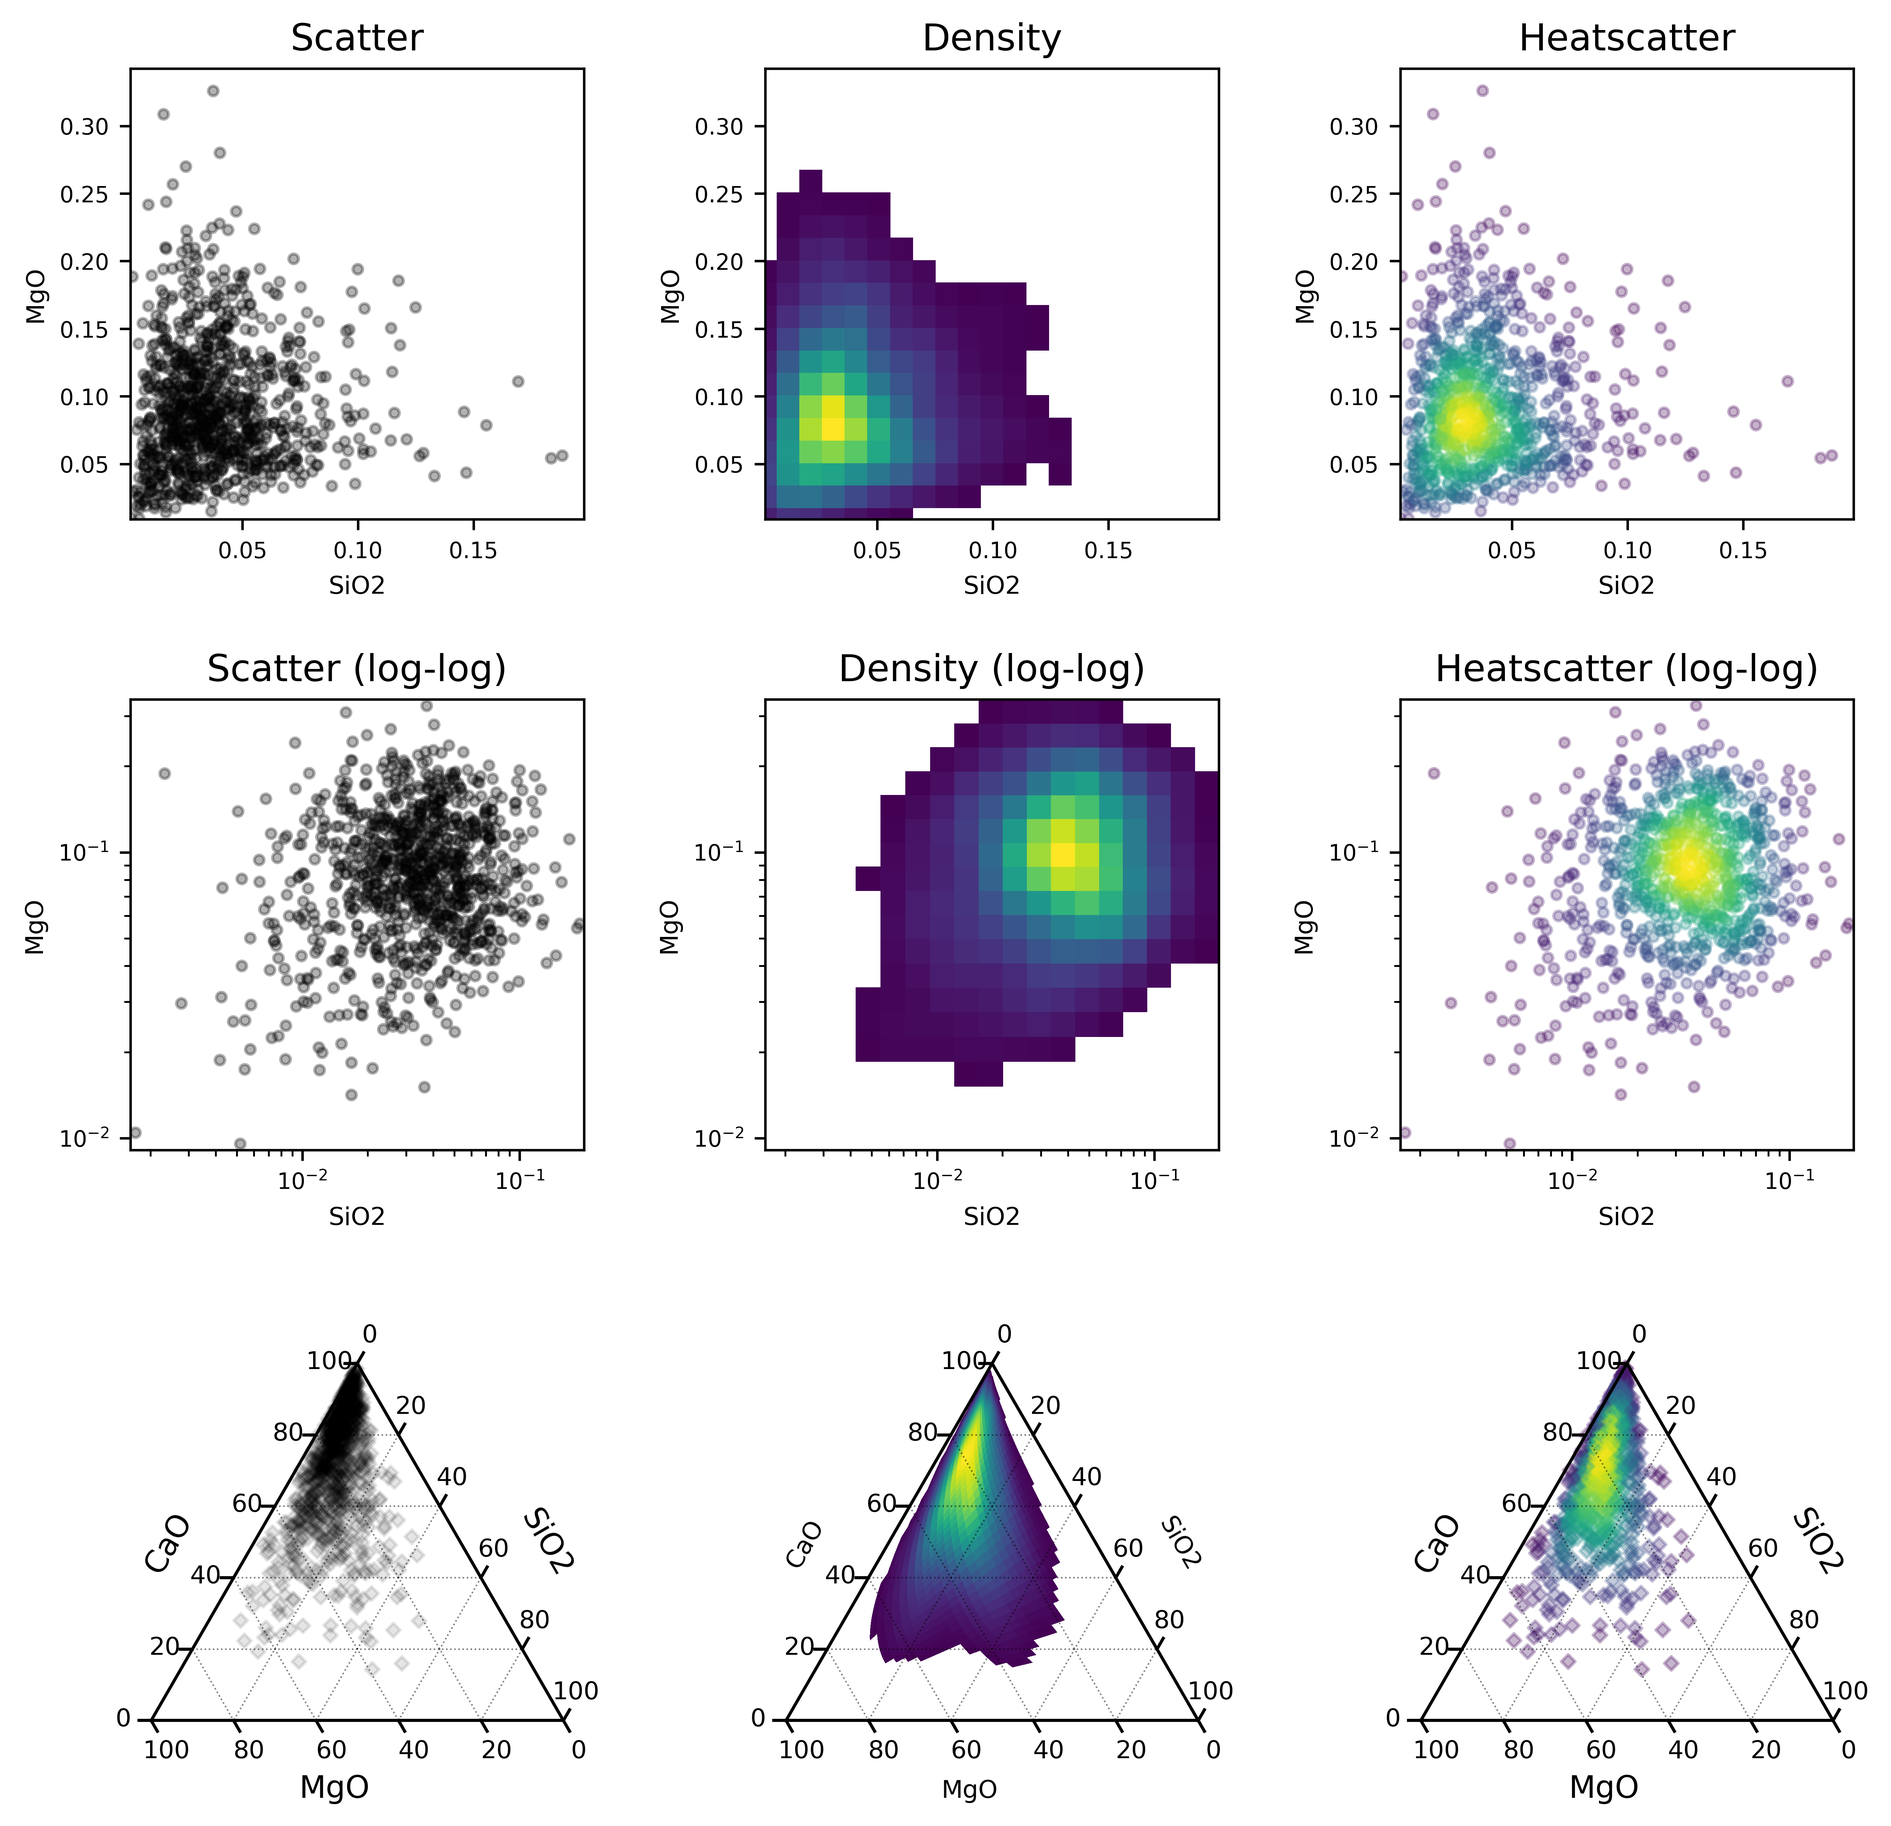
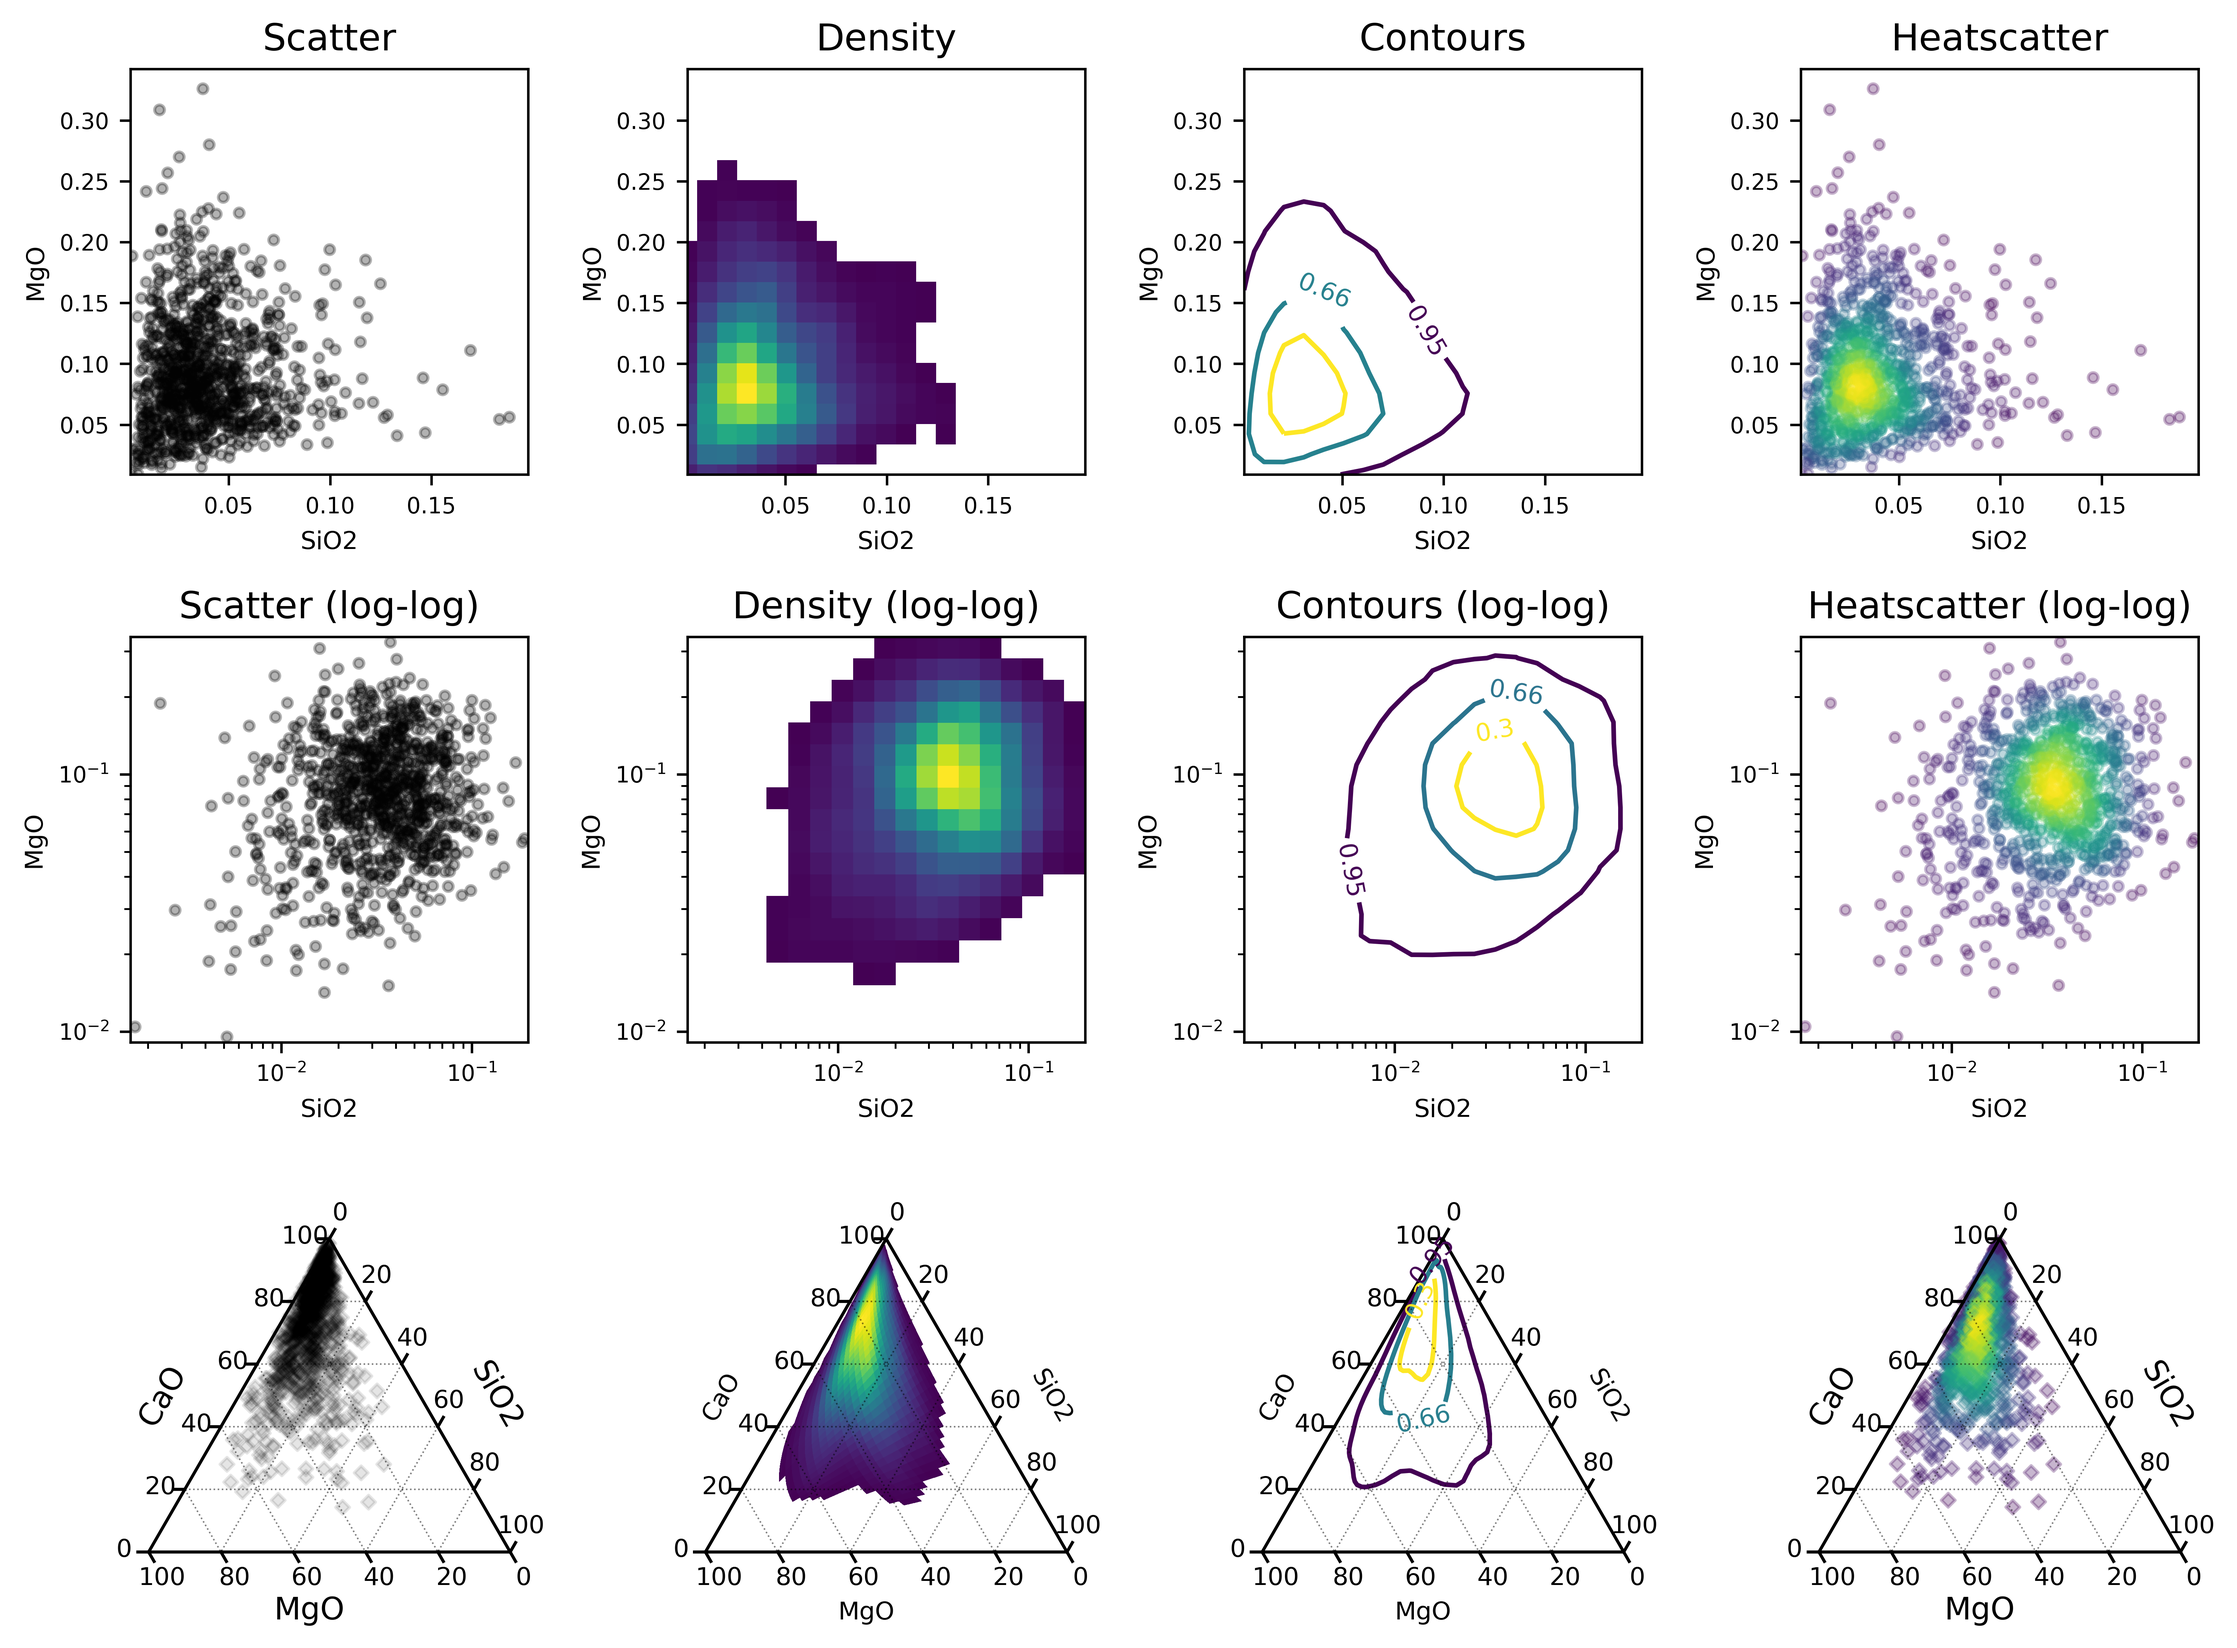
Update Heatscatter Comparison

diff --git a/docs/source/examples/plotting/heatscatter.py b/docs/source/examples/plotting/heatscatter.py
@@ -32,32 +32,41 @@ df = test_df(
 #
 from pyrolite.util.plot import share_axes
 
-fig, ax = plt.subplots(3, 3, figsize=(10, 10))
-ax = ax.flat
-share_axes(ax[:3], which="xy")
-share_axes(ax[3:6], which="xy")
-share_axes(ax[6:], which="xy")
+fig, ax = plt.subplots(3, 4, figsize=(12, 9))
 
+ax = ax.flat
+share_axes(ax[:4], which="xy")
+share_axes(ax[4:8], which="xy")
+share_axes(ax[8:], which="xy")
+
+contours = [0.95, 0.66, 0.3]
 # linear-scaled comparison
 df.loc[:, ["SiO2", "MgO"]].pyroplot.scatter(ax=ax[0], c="k", s=10, alpha=0.3)
 df.loc[:, ["SiO2", "MgO"]].pyroplot.density(ax=ax[1])
-df.loc[:, ["SiO2", "MgO"]].pyroplot.heatscatter(ax=ax[2], s=10, alpha=0.3)
+df.loc[:, ["SiO2", "MgO"]].pyroplot.density(ax=ax[2], contours=contours)
+df.loc[:, ["SiO2", "MgO"]].pyroplot.heatscatter(ax=ax[3], s=10, alpha=0.3)
 
 # log-log plots
-df.loc[:, ["SiO2", "MgO"]].pyroplot.scatter(ax=ax[3], c="k", s=10, alpha=0.3)
-df.loc[:, ["SiO2", "MgO"]].pyroplot.density(ax=ax[4], logx=True, logy=True)
+df.loc[:, ["SiO2", "MgO"]].pyroplot.scatter(ax=ax[4], c="k", s=10, alpha=0.3)
+df.loc[:, ["SiO2", "MgO"]].pyroplot.density(ax=ax[5], logx=True, logy=True)
+df.loc[:, ["SiO2", "MgO"]].pyroplot.density(
+    ax=ax[6], contours=contours, logx=True, logy=True
+)
 df.loc[:, ["SiO2", "MgO"]].pyroplot.heatscatter(
-    ax=ax[5], s=10, alpha=0.3, logx=True, logy=True
+    ax=ax[7], s=10, alpha=0.3, logx=True, logy=True
 )
 # ternary plots
-df.loc[:, ["SiO2", "CaO", "MgO"]].pyroplot.scatter(ax=ax[6], c="k", s=10, alpha=0.1)
-df.loc[:, ["SiO2", "CaO", "MgO"]].pyroplot.density(ax=ax[7], bins=100)
+df.loc[:, ["SiO2", "CaO", "MgO"]].pyroplot.scatter(ax=ax[8], c="k", s=10, alpha=0.1)
+df.loc[:, ["SiO2", "CaO", "MgO"]].pyroplot.density(ax=ax[9], bins=100)
+df.loc[:, ["SiO2", "CaO", "MgO"]].pyroplot.density(
+    ax=ax[10], contours=contours, bins=100
+)
 df.loc[:, ["SiO2", "CaO", "MgO"]].pyroplot.heatscatter(
-    ax=ax[8], s=10, alpha=0.3, renorm=True
+    ax=ax[11], s=10, alpha=0.3, renorm=True
 )
 fig.subplots_adjust(hspace=0.4, wspace=0.4)
 
-titles = ["Scatter", "Density", "Heatscatter"]
+titles = ["Scatter", "Density", "Contours", "Heatscatter"]
 for t, a in zip(titles + [i + " (log-log)" for i in titles], ax):
     a.set_title(t)
 ########################################################################################

diff --git a/docs/source/usage/examples/_auto/plotting/heatscatter.py b/docs/source/usage/examples/_auto/plotting/heatscatter.py
@@ -32,32 +32,41 @@ df = test_df(
 #
 from pyrolite.util.plot import share_axes
 
-fig, ax = plt.subplots(3, 3, figsize=(10, 10))
-ax = ax.flat
-share_axes(ax[:3], which="xy")
-share_axes(ax[3:6], which="xy")
-share_axes(ax[6:], which="xy")
+fig, ax = plt.subplots(3, 4, figsize=(12, 9))
 
+ax = ax.flat
+share_axes(ax[:4], which="xy")
+share_axes(ax[4:8], which="xy")
+share_axes(ax[8:], which="xy")
+
+contours = [0.95, 0.66, 0.3]
 # linear-scaled comparison
 df.loc[:, ["SiO2", "MgO"]].pyroplot.scatter(ax=ax[0], c="k", s=10, alpha=0.3)
 df.loc[:, ["SiO2", "MgO"]].pyroplot.density(ax=ax[1])
-df.loc[:, ["SiO2", "MgO"]].pyroplot.heatscatter(ax=ax[2], s=10, alpha=0.3)
+df.loc[:, ["SiO2", "MgO"]].pyroplot.density(ax=ax[2], contours=contours)
+df.loc[:, ["SiO2", "MgO"]].pyroplot.heatscatter(ax=ax[3], s=10, alpha=0.3)
 
 # log-log plots
-df.loc[:, ["SiO2", "MgO"]].pyroplot.scatter(ax=ax[3], c="k", s=10, alpha=0.3)
-df.loc[:, ["SiO2", "MgO"]].pyroplot.density(ax=ax[4], logx=True, logy=True)
+df.loc[:, ["SiO2", "MgO"]].pyroplot.scatter(ax=ax[4], c="k", s=10, alpha=0.3)
+df.loc[:, ["SiO2", "MgO"]].pyroplot.density(ax=ax[5], logx=True, logy=True)
+df.loc[:, ["SiO2", "MgO"]].pyroplot.density(
+    ax=ax[6], contours=contours, logx=True, logy=True
+)
 df.loc[:, ["SiO2", "MgO"]].pyroplot.heatscatter(
-    ax=ax[5], s=10, alpha=0.3, logx=True, logy=True
+    ax=ax[7], s=10, alpha=0.3, logx=True, logy=True
 )
 # ternary plots
-df.loc[:, ["SiO2", "CaO", "MgO"]].pyroplot.scatter(ax=ax[6], c="k", s=10, alpha=0.1)
-df.loc[:, ["SiO2", "CaO", "MgO"]].pyroplot.density(ax=ax[7], bins=100)
+df.loc[:, ["SiO2", "CaO", "MgO"]].pyroplot.scatter(ax=ax[8], c="k", s=10, alpha=0.1)
+df.loc[:, ["SiO2", "CaO", "MgO"]].pyroplot.density(ax=ax[9], bins=100)
+df.loc[:, ["SiO2", "CaO", "MgO"]].pyroplot.density(
+    ax=ax[10], contours=contours, bins=100
+)
 df.loc[:, ["SiO2", "CaO", "MgO"]].pyroplot.heatscatter(
-    ax=ax[8], s=10, alpha=0.3, renorm=True
+    ax=ax[11], s=10, alpha=0.3, renorm=True
 )
 fig.subplots_adjust(hspace=0.4, wspace=0.4)
 
-titles = ["Scatter", "Density", "Heatscatter"]
+titles = ["Scatter", "Density", "Contours", "Heatscatter"]
 for t, a in zip(titles + [i + " (log-log)" for i in titles], ax):
     a.set_title(t)
 ########################################################################################

diff --git a/docs/source/examples/plotting/heatscatter.rst b/docs/source/examples/plotting/heatscatter.rst
@@ -59,32 +59,41 @@ visualisations for the same data:
 
     from pyrolite.util.plot import share_axes
 
-    fig, ax = plt.subplots(3, 3, figsize=(10, 10))
-    ax = ax.flat
-    share_axes(ax[:3], which="xy")
-    share_axes(ax[3:6], which="xy")
-    share_axes(ax[6:], which="xy")
+    fig, ax = plt.subplots(3, 4, figsize=(12, 9))
 
+    ax = ax.flat
+    share_axes(ax[:4], which="xy")
+    share_axes(ax[4:8], which="xy")
+    share_axes(ax[8:], which="xy")
+
+    contours = [0.95, 0.66, 0.3]
     # linear-scaled comparison
     df.loc[:, ["SiO2", "MgO"]].pyroplot.scatter(ax=ax[0], c="k", s=10, alpha=0.3)
     df.loc[:, ["SiO2", "MgO"]].pyroplot.density(ax=ax[1])
-    df.loc[:, ["SiO2", "MgO"]].pyroplot.heatscatter(ax=ax[2], s=10, alpha=0.3)
+    df.loc[:, ["SiO2", "MgO"]].pyroplot.density(ax=ax[2], contours=contours)
+    df.loc[:, ["SiO2", "MgO"]].pyroplot.heatscatter(ax=ax[3], s=10, alpha=0.3)
 
     # log-log plots
-    df.loc[:, ["SiO2", "MgO"]].pyroplot.scatter(ax=ax[3], c="k", s=10, alpha=0.3)
-    df.loc[:, ["SiO2", "MgO"]].pyroplot.density(ax=ax[4], logx=True, logy=True)
+    df.loc[:, ["SiO2", "MgO"]].pyroplot.scatter(ax=ax[4], c="k", s=10, alpha=0.3)
+    df.loc[:, ["SiO2", "MgO"]].pyroplot.density(ax=ax[5], logx=True, logy=True)
+    df.loc[:, ["SiO2", "MgO"]].pyroplot.density(
+        ax=ax[6], contours=contours, logx=True, logy=True
+    )
     df.loc[:, ["SiO2", "MgO"]].pyroplot.heatscatter(
-        ax=ax[5], s=10, alpha=0.3, logx=True, logy=True
+        ax=ax[7], s=10, alpha=0.3, logx=True, logy=True
     )
     # ternary plots
-    df.loc[:, ["SiO2", "CaO", "MgO"]].pyroplot.scatter(ax=ax[6], c="k", s=10, alpha=0.1)
-    df.loc[:, ["SiO2", "CaO", "MgO"]].pyroplot.density(ax=ax[7], bins=100)
+    df.loc[:, ["SiO2", "CaO", "MgO"]].pyroplot.scatter(ax=ax[8], c="k", s=10, alpha=0.1)
+    df.loc[:, ["SiO2", "CaO", "MgO"]].pyroplot.density(ax=ax[9], bins=100)
+    df.loc[:, ["SiO2", "CaO", "MgO"]].pyroplot.density(
+        ax=ax[10], contours=contours, bins=100
+    )
     df.loc[:, ["SiO2", "CaO", "MgO"]].pyroplot.heatscatter(
-        ax=ax[8], s=10, alpha=0.3, renorm=True
+        ax=ax[11], s=10, alpha=0.3, renorm=True
     )
     fig.subplots_adjust(hspace=0.4, wspace=0.4)
 
-    titles = ["Scatter", "Density", "Heatscatter"]
+    titles = ["Scatter", "Density", "Contours", "Heatscatter"]
     for t, a in zip(titles + [i + " (log-log)" for i in titles], ax):
         a.set_title(t)
 
@@ -104,7 +113,7 @@ visualisations for the same data:
 
 .. rst-class:: sphx-glr-timing
 
-   **Total running time of the script:** ( 0 minutes  6.756 seconds)
+   **Total running time of the script:** ( 0 minutes  7.598 seconds)
 
 
 .. _sphx_glr_download_examples_plotting_heatscatter.py:
